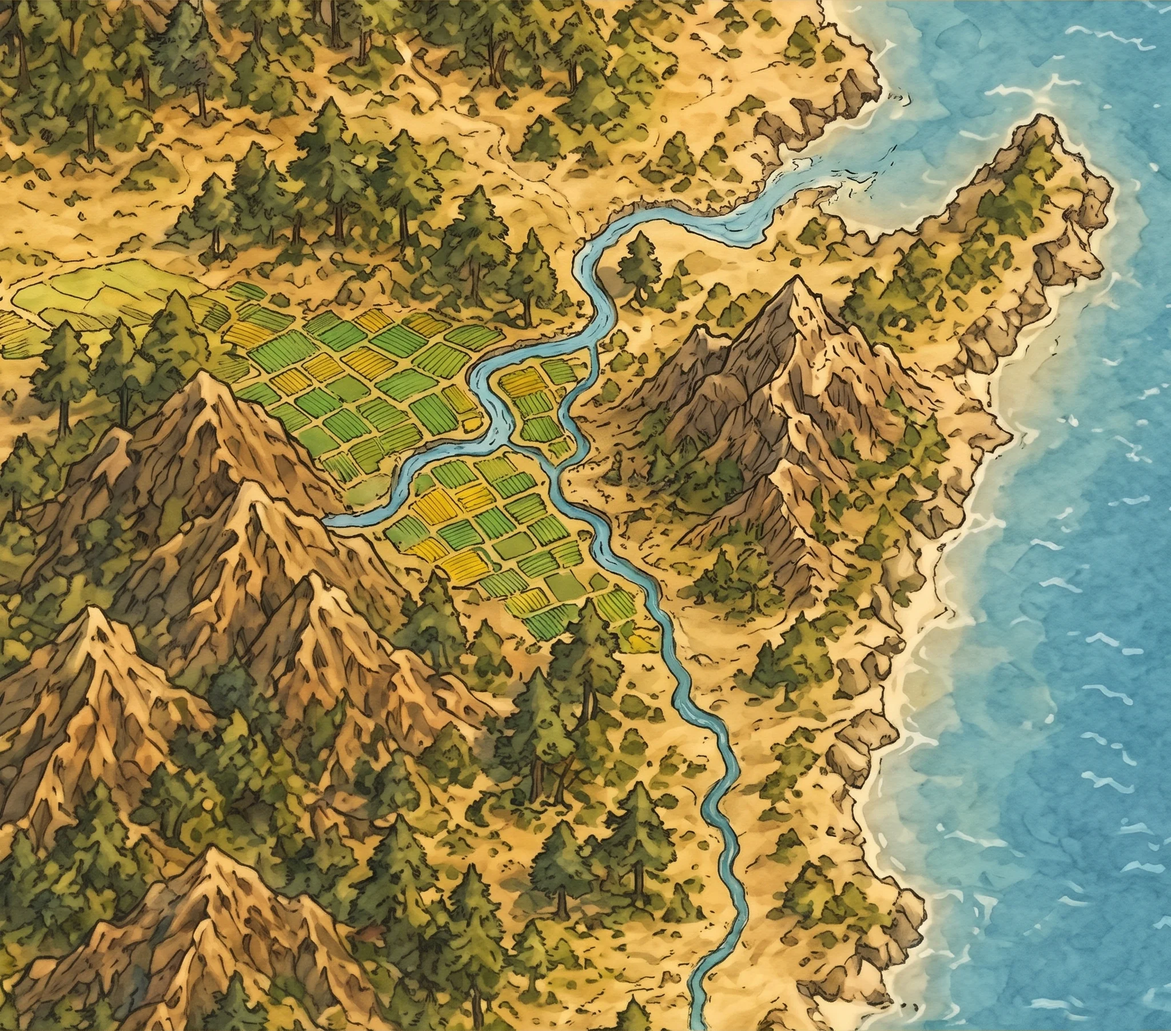
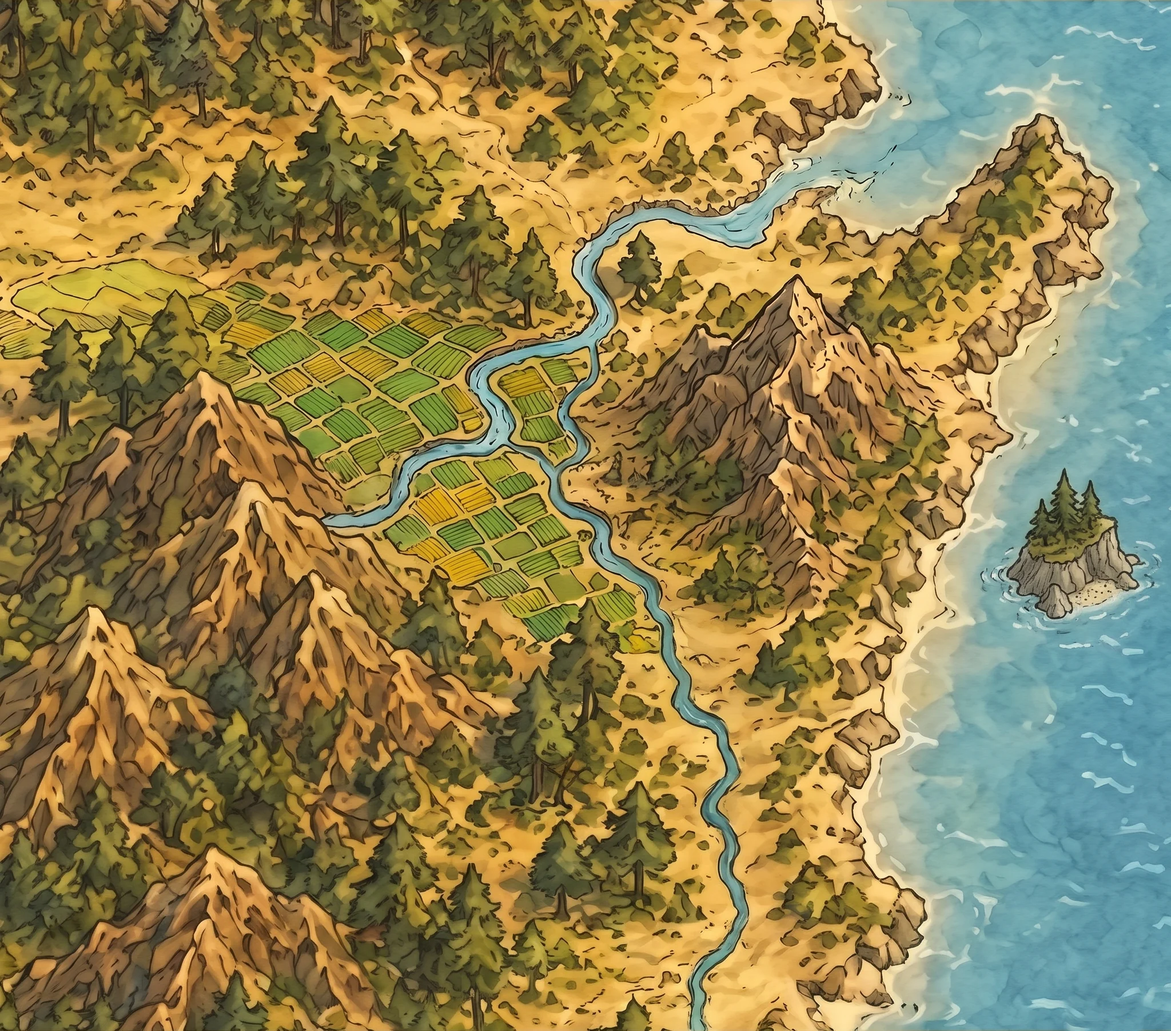
3장 왜인은 뭍이 아니라 앞바다 섬에 — 바닷가 왜인 진(뭍의 목책)을 동해 앞바다 작은 섬으로 옮기고, 토함산 동남쪽에 「동해 바닷가」를 두어 섬과 뱃길로 잇는다(왜인은 배로 건너와 노략한다) · 바탕 그림의 그 자리에 소나무 섬을 그려 넣음(제미나이) · 나라 소개에 남해 11년 왜인 병선 100여 척 노략 기사를 더함 (형 10-25: "본토 말고 가까운 섬에 진치고 있다는 설정이면")

diff --git a/src/realm/data/regions/seorabeol.ts b/src/realm/data/regions/seorabeol.ts
@@ -35,7 +35,9 @@ export const SEORA_PLACES: Readonly<Record<string, readonly [number, number]>> =
   'sr-aryeong': [129.2, 35.77], // 알영 우물 — 사량리 [설]
   'sr-toham': [129.4, 35.8], // 토함산 소도
   'sr-hyeongsan': [129.33, 36.02], // 형산강 하구 들
-  'sr-wae-camp': [129.44, 35.76], // 동해 바닷가 왜인 진 (지음)
+  // 왜인은 뭍에 진을 치지 않는다 — 앞바다 작은 섬에 머물며 배로 건너와 노략한다 (형 10-25: "본토 말고 가까운 섬에 진치고 있다는 설정") (지음)
+  'sr-wae-camp': [129.58, 35.8], // 동해 앞바다 작은 섬 (바탕 그림의 섬 자리)
+  'sr-shore': [129.45, 35.75], // 토함산 동남쪽 바닷가 — 왜인 배가 닿는 곳
 }
 
 const NODES: RNode[] = [
@@ -52,8 +54,9 @@ const NODES: RNode[] = [
   wild('sr-aryeong', '알영 우물 들', 120),
   node('sr-toham', '토함산 소도', 'sodo', ['sodo'], null, 0),
   wild('sr-hyeongsan', '형산강 들', 140),
-  // 바다 건너 온 왜인 — 마을들을 넘본다
-  node('sr-wae-camp', '바닷가 왜인 진', 'fort', ['palisade'], 'sr-wae', 90),
+  wild('sr-shore', '동해 바닷가', 80),
+  // 바다 건너 온 왜인 — 앞바다 섬에 머물며 배로 건너와 마을들을 넘본다
+  node('sr-wae-camp', '앞바다 왜인 섬', 'fort', ['palisade'], 'sr-wae', 90),
 ]
 
 const e = (id: string, a: string, b: string, kind: REdge['kind'], tags: REdge['tags'] = []): REdge => ({ id, a, b, kind, tags })
@@ -71,8 +74,9 @@ const EDGES: REdge[] = [
   e('r11', 'sr-goheo-cap', 'sr-jinji-cap', 'pass'), // 남산을 돌아
   e('r12', 'sr-daesu-cap', 'sr-goheo-cap', 'forest'),
   e('r13', 'sr-daesu-cap', 'sr-gari-cap', 'pass'),
-  e('r14', 'sr-jinji-cap', 'sr-wae-camp', 'pass'), // 토함산 동쪽 고개 너머 바닷가
-  e('r15', 'sr-toham', 'sr-wae-camp', 'forest'),
+  e('r14', 'sr-jinji-cap', 'sr-shore', 'pass'), // 토함산 동쪽 고개 너머 바닷가
+  e('r15', 'sr-toham', 'sr-shore', 'forest'),
+  e('r16', 'sr-shore', 'sr-wae-camp', 'sea'), // 왜인의 배가 오가는 뱃길
 ]
 
 const FACTIONS: Faction[] = [
@@ -134,7 +138,7 @@ const ARMIES: Army[] = [
   a('a-sr-daesu', 'sr-daesu', null, 'sr-daesu-cap', { spear: 25, bow: 15 }, 'bronze'),
   a('a-sr-gari', 'sr-gari', null, 'sr-gari-cap', { spear: 25, bow: 15 }, 'bronze'),
   a('a-sr-goya', 'sr-goya', 'sr-goya-1', 'sr-goya-cap', { spear: 30, bow: 20 }, 'bronze'),
-  // 왜인 — 바닷가에서 마을을 넘본다. 마을들을 지켜 주면 마음이 기운다
+  // 왜인 — 앞바다 섬에서 배로 건너와 마을을 넘본다. 마을들을 지켜 주면 마음이 기운다
   a('a-sr-wae', 'sr-wae', 'sr-wae-ruler', 'sr-wae-camp', { spear: 45, bow: 25 }, 'ironTip'),
 ]
 
@@ -157,9 +161,9 @@ export const SEORA_NATIONS: readonly NationInfo[] = [
     bars: { army: 2, grain: 3, militia: 2, terrain: 3 },
   },
   {
-    id: 'sr-wae', name: '왜인', place: '동해 바닷가 (지음)',
-    blurb: '바다 건너 온 무리. 쇠촉이 있고 마을들을 넘본다. 마을을 지켜 주면 마을의 마음이 서라벌로 기운다.',
-    source: '『삼국사기』 신라본기 — 혁거세 8년 왜인이 군사를 일으켜 변경을 침범하려다, 시조에게 신덕이 있다는 말을 듣고 돌아갔다.',
+    id: 'sr-wae', name: '왜인', place: '동해 앞바다 작은 섬 (지음)',
+    blurb: '바다 건너 와 앞바다 섬에 머무는 무리. 쇠촉이 있고 배로 건너와 바닷가 마을을 넘본다. 마을을 지켜 주면 마을의 마음이 서라벌로 기운다.',
+    source: '『삼국사기』 신라본기 — 혁거세 8년 왜인이 군사를 일으켜 변경을 침범하려다, 시조에게 신덕이 있다는 말을 듣고 돌아갔다. 남해 11년 왜인이 병선 100여 척으로 바닷가 민가를 노략했다.',
     bars: { army: 3, grain: 2, militia: 1, terrain: 2 },
   },
 ]

diff --git a/src/realm/data/regions/seorabeol-geo.ts b/src/realm/data/regions/seorabeol-geo.ts
@@ -12,7 +12,8 @@ export const SEORA_PROJ = { lon0: 128.85, lon1: 129.65, lat0: 35.5, lat1: 36.15 
 export const SEORA_WORLD: WorldGeo = makeWorldGeo({
   proj: SEORA_PROJ,
   tiles: SOUTH_TILES.filter((t) => t.lon1 > SEORA_PROJ.lon0 && t.lon0 < SEORA_PROJ.lon1 && t.lat1 > SEORA_PROJ.lat0 && t.lat0 < SEORA_PROJ.lat1),
-  lands: SOUTH_LANDS, isles: SOUTH_ISLES, rivers: SOUTH_RIVERS,
+  // 앞바다 작은 섬 — 왜인이 머무는 곳 (지음 · 바탕 그림에도 그려 넣었다)
+  lands: SOUTH_LANDS, isles: [...SOUTH_ISLES, [[129.555, 35.825], [129.605, 35.825], [129.605, 35.775], [129.555, 35.775]]], rivers: SOUTH_RIVERS,
   scale: 2.5,
   // 판만의 그림 — 조각을 두 배 반으로 늘리면 흐릿했다 (형 10-25) · 같은 틀을 제미나이가 또렷하게 다시 그렸다(2048×1804)
   base: 'map-seorabeol/base.webp',
